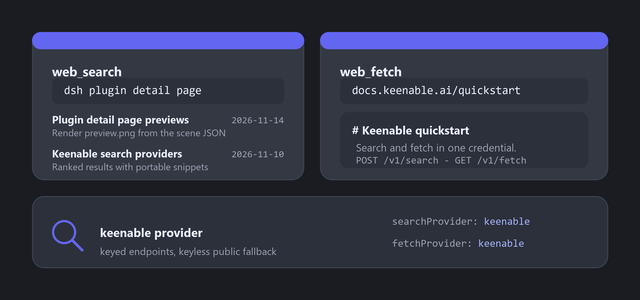
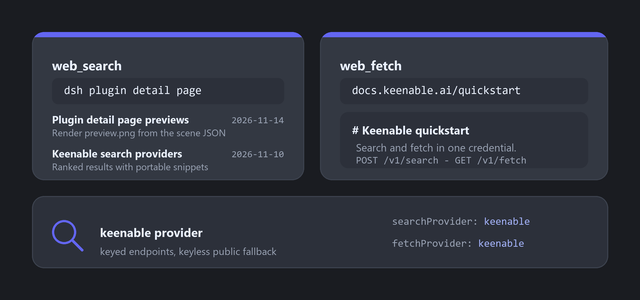
release: v1.0.13 (fix the detail image's 17-unit accent bar and tight title)
Two shipped defects in the detail artwork. The accent bar's clip mask ran to y + h + radius, so a 5-unit bar rendered as a 17-unit tongue crowding the title; the clip is now the card's rounded shape intersected with the bar's own rows. And the title sat three units above the query pill, which reads as a collision at the detail page's display size; it moves up to the same rhythm as its sibling plugin. tests/preview.test.js asserts both invariants from the scene — every card row clears the row above it and stays inside the card — and pins the renderer's clip, so neither can regress silently.

Changed region(s): [[0.0312, 0.12, 0.9688, 0.18], [0.0625, 0.21, 0.1875, 0.27], [0.5312, 0.21, 0.625, 0.27]]

diff --git a/tests/preview.test.js b/tests/preview.test.js
@@ -140,6 +140,114 @@ test('the manifest packages the docs directory with the detail documents', () =>
 	}
 })
 
+/** The minimum clear gap between two stacked rows, in canvas units. */
+const ROW_GAP = 3
+
+/**
+ * One row's vertical extent, in canvas units.
+ *
+ * A text row anchored at `y` in a font of `size` occupies `size` units below
+ * it. This is the conservative em box — wider than the ink — which is exactly
+ * what a stacked layout has to respect.
+ *
+ * @param {string} label - what the row is, for the failure message.
+ * @param {number} top - the row's top edge.
+ * @param {number} bottom - the row's bottom edge.
+ * @returns {{ label: string, top: number, bottom: number }} the row.
+ */
+function row(label, top, bottom) {
+	return { label, top, bottom }
+}
+
+/**
+ * The rows of one capability card, split by how they relate.
+ *
+ * `stacked` rows sit one below the next, so each must clear the one above it.
+ * `inner` rows sit inside a container — the markdown body's rect — so they must
+ * clear each other and stay within it. The container itself is the first entry
+ * of `inner` and also a member of `stacked`, because it is one row in the
+ * card's own stack.
+ *
+ * @param {object} card - the scene's `search` or `fetch` card.
+ * @param {string} kind - `search` or `fetch`, choosing which rows it holds.
+ * @returns {{ stacked: object[], inner: object[] }} the rows.
+ */
+function cardRows(card, kind) {
+	const stacked = [row('accent bar', card.y, card.y + card.bar.h)]
+	stacked.push(row('title', card.titleY, card.titleY + 13))
+	if (card.hostY !== undefined) stacked.push(row('host line', card.hostY, card.hostY + 10))
+	const pill = kind === 'search' ? card.query : card.url
+	stacked.push(row(kind === 'search' ? 'query' : 'url', pill.y, pill.y + pill.h))
+	const inner = []
+	if (kind === 'search') {
+		card.results.forEach((result, index) => {
+			stacked.push(row(`result ${index + 1} title`, result.titleY, result.titleY + 10.5))
+			stacked.push(row(`result ${index + 1} snippet`, result.snippetY, result.snippetY + 9.5))
+		})
+	} else {
+		const body = row('body', card.body.y, card.body.y + card.body.h)
+		stacked.push(body)
+		inner.push(body)
+		inner.push(row('markdown title', card.mdTitleY, card.mdTitleY + 11.5))
+		inner.push(row('markdown body', card.bodyY, card.bodyY + 10.5))
+		inner.push(row('endpoints', card.endpointY, card.endpointY + 10))
+	}
+	return { stacked, inner }
+}
+
+test('every card row clears the row above it, and stays inside the card', () => {
+	// The shipped defect: the accent bar's clip ran `radius` units past the bar,
+	// so a 5-unit bar rendered as a 17-unit tongue crowding the title, and the
+	// title sat three units above the query pill. Both are layout arithmetic, so
+	// both are asserted from the scene rather than from the rendered pixels,
+	// which no assertion here can see.
+	const html = readFileSync(path.join(DOCS, 'preview-source.html'), 'utf8')
+	const match = /<script[^>]*id="scene"[^>]*>([\s\S]*?)<\/script>/.exec(html)
+	const scene = JSON.parse(match[1])
+	for (const [kind, card] of [['search', scene.search], ['fetch', scene.fetch]]) {
+		const { stacked, inner } = cardRows(card, kind)
+		const groups = inner.length > 1 ? [stacked, inner.slice(1)] : [stacked]
+		for (const rows of groups) {
+			for (let index = 1; index < rows.length; index++) {
+				const above = rows[index - 1]
+				const below = rows[index]
+				assert.ok(
+					below.top >= above.bottom + ROW_GAP,
+					`${kind}: ${below.label} starts at ${below.top}, only ${below.top - above.bottom} ` +
+						`below ${above.label}, which ends at ${above.bottom}`,
+				)
+			}
+		}
+		// A row inside the markdown body must also stay inside it. The container
+		// is `inner[0]`; it is a row of the card's own stack, not a row to clear.
+		const container = inner[0]
+		for (const item of inner.slice(1)) {
+			assert.ok(
+				item.bottom <= container.bottom,
+				`${kind}: ${item.label} ends at ${item.bottom}, past the body's ${container.bottom}`,
+			)
+		}
+		for (const item of stacked) {
+			assert.ok(item.top >= card.y, `${kind}: ${item.label} starts above the card`)
+			assert.ok(
+				item.bottom <= card.y + card.h,
+				`${kind}: ${item.label} ends at ${item.bottom}, past the card's ${card.y + card.h}`,
+			)
+		}
+	}
+})
+
+test('the renderer clips the accent bar to the bar, not to the card section', () => {
+	// The shipped defect: the mask ran to `y + h + radius`, which tinted every
+	// row down to the card's first full-width one and turned a 5-unit bar into
+	// a 17-unit tongue under the title. The clip is the card's rounded shape
+	// intersected with the bar's own rows.
+	const python = readFileSync(path.join(DOCS, 'render-preview.py'), 'utf8')
+	assert.ok(!/y \+ h \+ radius/.test(python), 'the accent mask still runs past the bar')
+	assert.ok(python.includes('ImageChops.multiply'), 'the accent mask no longer intersects the bar band')
+	assert.match(python, /def accent\(self, x, y, w, h, fill, radius, card_h\)/, 'accent no longer takes the card height')
+})
+
 test('the render source carries a scene with both languages', () => {
 	// The scene is the contract between the page that previews the artwork and
 	// the script that renders it: a language missing from it would render an

diff --git a/docs/preview-source.html b/docs/preview-source.html
@@ -145,7 +145,7 @@
   "search": {
     "x": 32, "y": 32, "w": 272, "h": 148, "r": 12,
     "bar": { "h": 5, "fill": "#6366f1" },
-    "titleX": 52, "titleY": 62,
+    "titleX": 52, "titleY": 56,
     "textX": 52,
     "query": { "x": 52, "y": 78, "w": 232, "h": 26, "r": 6 },
     "results": [
@@ -157,7 +157,7 @@
   "fetch": {
     "x": 320, "y": 32, "w": 288, "h": 148, "r": 12,
     "bar": { "h": 5, "fill": "#6366f1" },
-    "titleX": 340, "titleY": 62,
+    "titleX": 340, "titleY": 56,
     "url": { "x": 340, "y": 78, "w": 248, "h": 26, "r": 6 },
     "body": { "x": 340, "y": 112, "w": 248, "h": 56, "r": 8 },
     "mdTitleY": 122, "bodyY": 140, "endpointY": 156

diff --git a/index.js b/index.js
@@ -47,7 +47,7 @@ const KEENABLE_MAX_SNIPPET_LENGTH = 10000;
 /** Keenable's accepted `max_results` upper bound; the seam still caps on return. */
 const KEENABLE_MAX_RESULTS = 50;
 /** Attribution header sent on every request. */
-const USER_AGENT = "dsh-web-search-keenable/1.0.12";
+const USER_AGENT = "dsh-web-search-keenable/1.0.13";
 /** Launch-environment variable naming the Keenable API key credential. */
 const KEENABLE_API_KEY_ENV = "KEENABLE_API_KEY";
 /**

diff --git a/docs/render-preview.py b/docs/render-preview.py
@@ -37,7 +37,7 @@ import re
 import sys
 from pathlib import Path
 
-from PIL import Image, ImageDraw, ImageFont
+from PIL import Image, ImageChops, ImageDraw, ImageFont
 
 #: Rendered at this multiple of the canvas, then downsampled.
 SUPERSAMPLE = 4
@@ -151,25 +151,37 @@ class Canvas:
             size -= 0.5
         return size
 
-    def accent(self, x, y, w, h, fill, radius):
+    def accent(self, x, y, w, h, fill, radius, card_h):
         """A top accent bar clipped to the card's rounded corners.
 
         A square-cornered bar laid over a rounded card overhangs at both top
         corners, which reads as a misalignment rather than a design choice. The
-        clip is the card's own shape, so the bar follows it exactly.
+        clip is the card's own rounded shape, so the bar follows it exactly.
+
+        The clip must be narrowed to the bar's own rows as well: clipping to the
+        card's top *section* — the shape that ends `radius` below the bar — tints
+        every row down to the first full-width one, which turns a 5-unit bar
+        into a 17-unit tongue. The card's rounded shape supplies the corners; a
+        plain band supplies the height.
 
         @param x, y - the card's top-left, in canvas units.
         @param w, h - the card's width and the bar's height.
         @param fill - the bar's colour.
         @param radius - the card's corner radius, in canvas units.
+        @param card_h - the card's own height, so the clip follows its corners.
         """
-        # The clip is the card's top section: rounded at the top, square where
-        # the bar ends, so nothing below the bar is tinted.
+        # The card's rounded shape, then the bar's rows: their intersection is
+        # the bar with the card's corners and nothing else.
         mask = Image.new('L', self.image.size, 0)
         ImageDraw.Draw(mask).rounded_rectangle(
             (round(x * SUPERSAMPLE), round(y * SUPERSAMPLE),
-             round((x + w) * SUPERSAMPLE), round((y + h + radius) * SUPERSAMPLE)),
+             round((x + w) * SUPERSAMPLE), round((y + card_h) * SUPERSAMPLE)),
             radius=round(radius * SUPERSAMPLE), fill=255)
+        band = Image.new('L', self.image.size, 0)
+        ImageDraw.Draw(band).rectangle(
+            (round(x * SUPERSAMPLE), round(y * SUPERSAMPLE),
+             round((x + w) * SUPERSAMPLE), round((y + h) * SUPERSAMPLE)), fill=255)
+        mask = ImageChops.multiply(mask, band)
         self.image.paste(Image.new('RGB', self.image.size, fill), (0, 0), mask)
 
     def downsample(self) -> Image.Image:
@@ -198,7 +210,7 @@ def draw_scene(scene: dict, lang: str) -> Image.Image:
     canvas.rect(search['x'], search['y'], search['w'], search['h'], fill=colors['card'],
                 radius=search['r'], outline=colors['cardEdge'])
     canvas.accent(search['x'], search['y'], search['w'], search['bar']['h'],
-                  search['bar']['fill'], search['r'])
+                  search['bar']['fill'], search['r'], search['h'])
 
     canvas.text(search['titleX'], search['titleY'], text['searchTitle'], strong, 13, colors['text'])
 
@@ -230,7 +242,7 @@ def draw_scene(scene: dict, lang: str) -> Image.Image:
     canvas.rect(fetch['x'], fetch['y'], fetch['w'], fetch['h'], fill=colors['card'],
                 radius=fetch['r'], outline=colors['cardEdge'])
     canvas.accent(fetch['x'], fetch['y'], fetch['w'], fetch['bar']['h'],
-                  fetch['bar']['fill'], fetch['r'])
+                  fetch['bar']['fill'], fetch['r'], fetch['h'])
 
     canvas.text(fetch['titleX'], fetch['titleY'], text['fetchTitle'], strong, 13, colors['text'])
 
